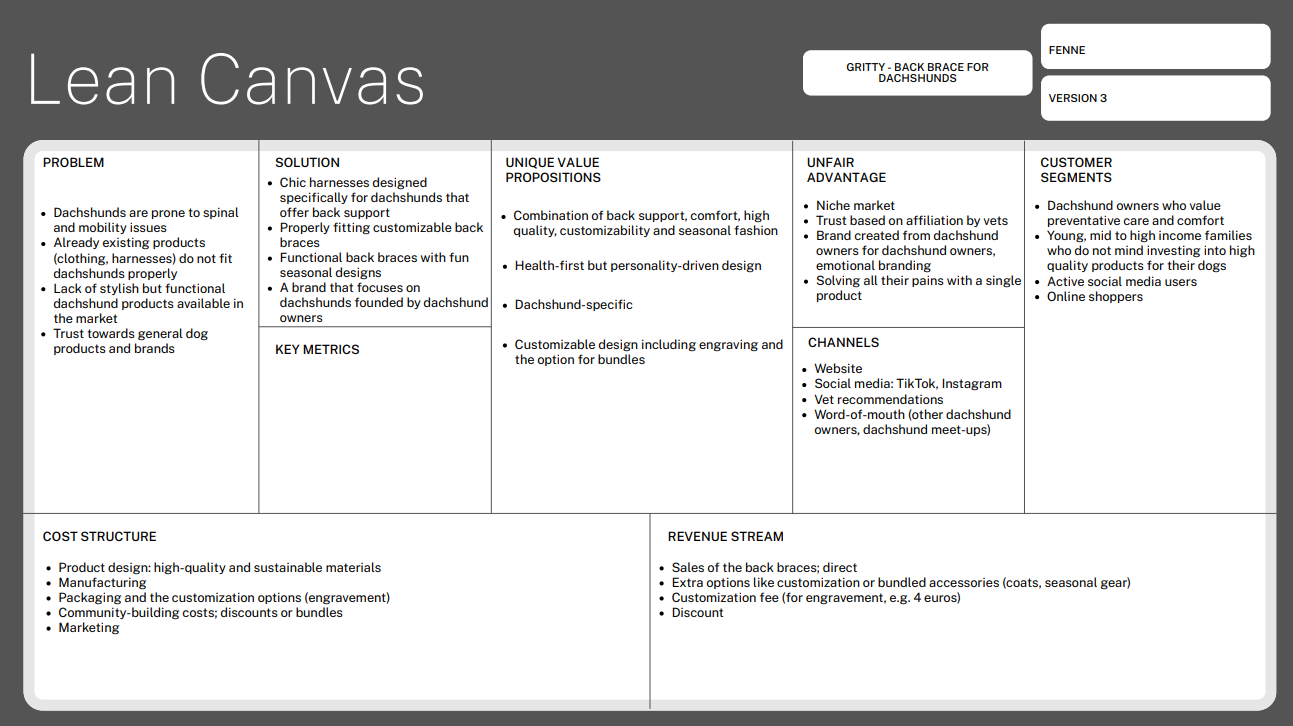
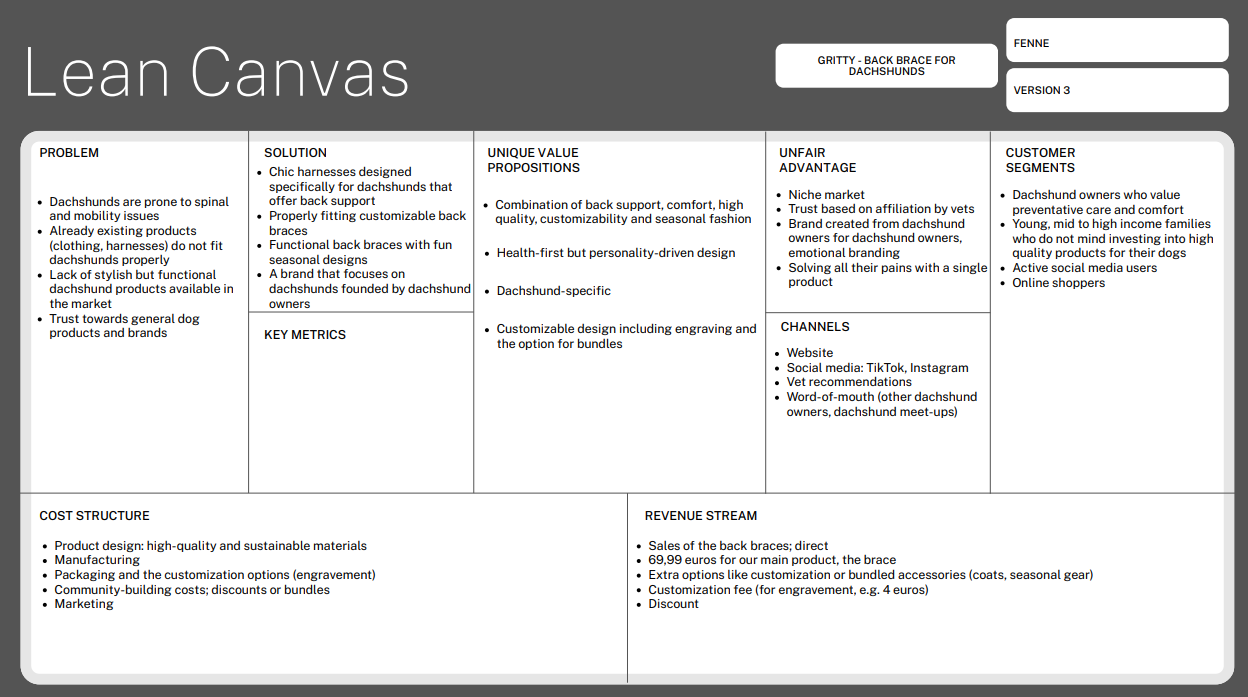
management

diff --git a/corporate.html b/corporate.html
@@ -537,61 +537,88 @@
         
           <!-- End Marketing, start Management -->
 
-          <h2 id="management" class="mt-5 text-danger fw-bold">Management</h2>
+          <h2 id="management" class="mt-5 fw-bold">Management</h2>
 
           <h4 id="management-1" class="mt-2">Lean Canvas</h4>
                 <img alt="Lean canvas" class="img-thumbnail" src="images/corporate-page/final-lean-canvas.png">
 
+	 
+	  
+	  
           <p class="fw-bold">Problem</p>
           <ul>
-            <li>List your top 3 problems you solve for your target group(s).</li>
-            <li>Describe briefly how the problems are solved now (existing alternatives).</li>
+            <li>The back braces do not fit the dogs</li>
+			<li>The braces offered are purely functional and very basic designs. If the braces are stylish, they are not functional for back problems.</li>
+			<li>Generic dog brands do not offer many dachshund-focused products</li>
+            <p>Currently, there are solutions to all these separate problems, but there isn’t a product that solves them all. Dachshund owners can buy dachshund-specific clothing, but even then, the fit isn’t guaranteed. Most back braces on the market serve solely a functional purpose and don’t have a special style. If dachshund owners don’t trust general pet stores, they can turn to dachshund-specific ones. </p>
           </ul>
           <p class="fw-bold">Solution</p>
           <ul>
-            <li>Outline the brand solution(s) you have for the above problem(s).</li>
+            <li>We offer a single product that solves all these problems in one go. Our chic harnesses are designed specifically for dachshunds. They are properly fitting as well as customizable, so pet owners don’t have to go through all the struggle with finding a properly fitting one. Our back braces are functional as well as stylish, with fun seasonal designs. We are a brand made by dachshund owners for dachshund owners. </li>
           </ul>
           <p class="fw-bold">Customer segments</p>
           <ul>
-            <li>List your target customers and/or users.</li>
-            <li>Describe briefly the characteristics of your ideal customer (early adopter, brand persona).</li>
+            <li>Our target is dachshund owners who value preventative care and comfort. They are aware of the health issues their dogs face and how expensive repair surgeries can be. Even though they are young (20-30), they can afford to invest in premium high-quality products for their dogs. They are primarily female active social media users and shop online. According to the Diffusion of Innovation Theory, our customers are somewhere between early adopters and the early majority.  They like to try new problem-solving products, but they are more cautious and wait for reviews and a brand's good reputation before purchasing (Ou, n.d.). Our brand persona is trustworthy, caring, and warm, and our tone of voice is a mix of semi-formal/educational and relatable. </li>
           </ul>
           <p class="fw-bold">Unique value proposition</p>
           <ul>
-            <li>With a single, clear compelling message, state why your brand idea is different and worth paying attention to.</li>
-            <li></li>
+            <li>Gritty is a health-first, design-driven combination of back support, quality, comfort, customization – engraving, sizing, convenience – bundles brand made for dachshunds only.</li>
+            
           </ul>
           <p class="fw-bold">Unfair advantage</p>
           <ul>
-            <li>List the aspect(s) of your brand that cannot easily be copied, also called your sustainable competitive advantage(s).</li>
+            <li>We focus on a niche market and craft our products with the guidance of veterinary experts. Our brand evokes positive customer emotions because we are dachshund owners ourselves. We have first-hand insights, and we know how bad the health complications of dachshunds are without any prevention. We solve all our customers' pains with one single product – our Gritty back brace. </li>
           </ul>
           <p class="fw-bold">Channels</p>
           <ul>
-            <li>List your main path to customers.</li>
-            <li>How do you reach them? What channel(s) do you use.</li>
+            <li>The main channel is our website. That is the only way to purchase our product. We promote it through our official social media accounts on TikTok and Instagram, where we build trust and connections with our customers. As mentioned earlier, we work closely with vets who will recommend our product at their clinics. Lastly, based on our insights, dachshund owners enjoy joining dachshund meet-ups and meeting other owners. Through these events, they can recommend our product to each other. </li>
           </ul>
           <p class="fw-bold">Key metrics</p>
           <ul>
-            <li>List the key numbers that tell you how your brand experience is doing.</li>
-            <li>For example amount of users, downloads, visitors, subscriptions, sales etc. Numbers you are able to measure.</li>
+            <li>We do not have any key metrics because these are the numbers showing how our business is doing. It says if our business is delivering value and growing. Because our website isn’t life yet, we cannot measure these different things.</li>
           </ul>
           <p class="fw-bold">Revenue streams</p>
           <ul>
-            <li>List your sources of revenue: describe the revenue model and the (different) revenue stream(s).</li>
+            <li>The sales of our back brace will be direct meaning we will sell it direct on our website. It’s our core product. From our interviews we have found that people will be interested in paying around 70 euros max. for a high-quality brace when its vet endorsed.</li>
+
+			<li>Customization and bundled accessories create additional revenue. Interviewers showed high interest in these options like engravement. Bundle options perceived value and make shopping more fun and easier. Offering a discount could increase average order value and encourages more purchases per visit. </li>
+
+			<li>The seasonal or limited-edition collections drive urgency and keep customers coming back.</li>
           </ul>
           <p class="fw-bold">Cost structure</p>
           <ul>
-            <li>List your main costs: define the fixed and variable costs.</li>
-            <li>Calculate the cost per unit.</li>
+            <p>These are our costs to run the business. Our business has product development and brand building elements. </p>
+			 <li><strong>Our fixed costs are </strong>- <em>Product design and prototyping</em> – material testing, tailoring the dachshund fit; <em>Branding and packaging costs</em> – well-designed packaging; <em>Costs of maintaining the website</em> – our sole sales channel</li>
+			 <li><strong>Our variable costs are</strong> - <em>Marketing and advertisement</em> – partnership with vet, paid ads, social media campaigns; <em>Manufacture and production costs</em> - for materials, labor and the customization part; <em>Shipping and logistics</em> – delivery costs, return costs; <em>Customizable costs</em> – personalized design, extra material needed, bundles</li>
           </ul>
           <p class="fw-bold">Services/products</p>
           <ul>
-            <li>State what your product and/or service is and how this contributes to your unique value proposition.</li>
-            <li>Clarify the fit between the product/service developed and the brand identity/brand image.</li>
-          </ul>
+            <li>Intervertebral Disc Disease (IVDD), a spine disorder that can cause pain, loss of motion, or even paralysis, is a genetically predisposed ailment in dachshunds. In their lifespan, up to 25% of dachshunds will experience this illness. Long walks without sufficient back support, jumping, and climbing stairs all contribute to these problems. Gritty stops this with our main product.</li>
+			<li>Our main product is a back brace. It is a health-first design-driven harness created only for the breed dachshunds. It solves multiple owner frustrations at once, it combines back support with adjustable comfort, and it offers customizable design. </li> 
+
+			<li>What sets our product apart is the seamless fit with our brand identity and value proposition. Our brand identity is warm, trustworthy and practical. We are a brand by dog owners made for dog owners. Our brand image is thoughtful, quality-focused and playful, we care deeply about the health and happiness of the dachshunds.  </li>
+
+	<p>Our unique value proposition is how our brace is designed for dachshunds only. It fits their body and lifestyle. We offer prevention and we wrap it in a product which also brings style and happiness. </p>
 
           <h4 id="management-2" class="mt-2">Validation of Assumptions</h4>
-          <p>Write a reflection on the choices made in creating choosing the trademark, including an analysis of the existing alternatives.</p>
+			  <li>Customers are willing to pay 69,99 for the back brace</li>
+
+				<p>According to our interviews, this assumption is correct. Given how expensive back surgery can be, Dachshund owners understand the long-term benefits of preventative treatment. Many respondents said they are willing to spend money on their dog's health if the product is prescribed by a veterinarian and exhibits observable results. The optimal price range of €70 was in line with our early estimates. This demonstrates that our solution meets actual client needs and validates our pricing plan.</p>
+			  
+			  <li>There is a lack of stylish yet functional dachshunds’ products available on the market </li>
+
+				<p>According to the interviews, a lot of dachshund owners feel that the products available now fit into one of two categories: Practical but unappealing (such as dull harnesses or braces with a medical appearance); Adorable but ineffective (such as dog clothing with a fashion focus but no health benefits).</p>
+			    <p>Consumers complained that it was difficult to find something that looked well and fit correctly. They're looking for something that will help their dog's back without making them appear like a patient. If comfort and support were prioritized, several participants indicated that they would favour seasonal and colourful designs that are humorous and expressive. </p>
+			    <p>This demonstrates a need for fashionable and useful solutions that are also emotionally tied to the owner's aesthetic tastes. This validates our solution’s value and differentiator. Gritty doesn’t compromise style for function. It offers both. </p>
+			<p><strong>Reflection on trademark:</strong></p>
+			  <p>The name ‘Gritty’ reflects the resilient, brave, and bold spirit of dachshunds. Despite their small seize, dachshunds are known for their determination, courage, and tenancy. That same character is what we want to present within our brand. We want owners to see the personality of their dachshunds being reflected in our brand name. Which could make an emotionally connection and make it easy to remember. </p>
+			  <p>The word ‘grit’ implies strength, support, and perseverance. This connects to our product its purpose of preventing back problems and supporting long-term health. Gritty is short, easy to pronounce and it carries a lot of identity. From a branding and marketing point of view, "Gritty" easy to use across platforms — from packaging and merchandise to social media and community engagement. </p>
+			  <p>During our brainstorming phase, we have thought about a lot of other names. We explored names such as:  </p>
+			  <li>Woof: there was already a brand excising with this name. The name is also quite broad and obvious. The name is not very personal as well. </li>
+			  <li>Wiener Wrap: it’s a playful and breed-specific name, but it’s a bit too humorous and it does not fit our position in the market, which is more luxurious. It could also undermine the seriousness of our product and its (health) benefits.  </li>
+			  <li>Pawzitive: it has an uplifting tone but it’s also to generic and it has not much to do with our brand and its values.  </li>
+		<p>Compared to these names, Gritty was the perfect balance between functionality, playfulness, and trustworthiness. The name expresses our brand, is unique and memorable.  </p>
+			  
 
           <!-- End Management, start Appendix -->
           
